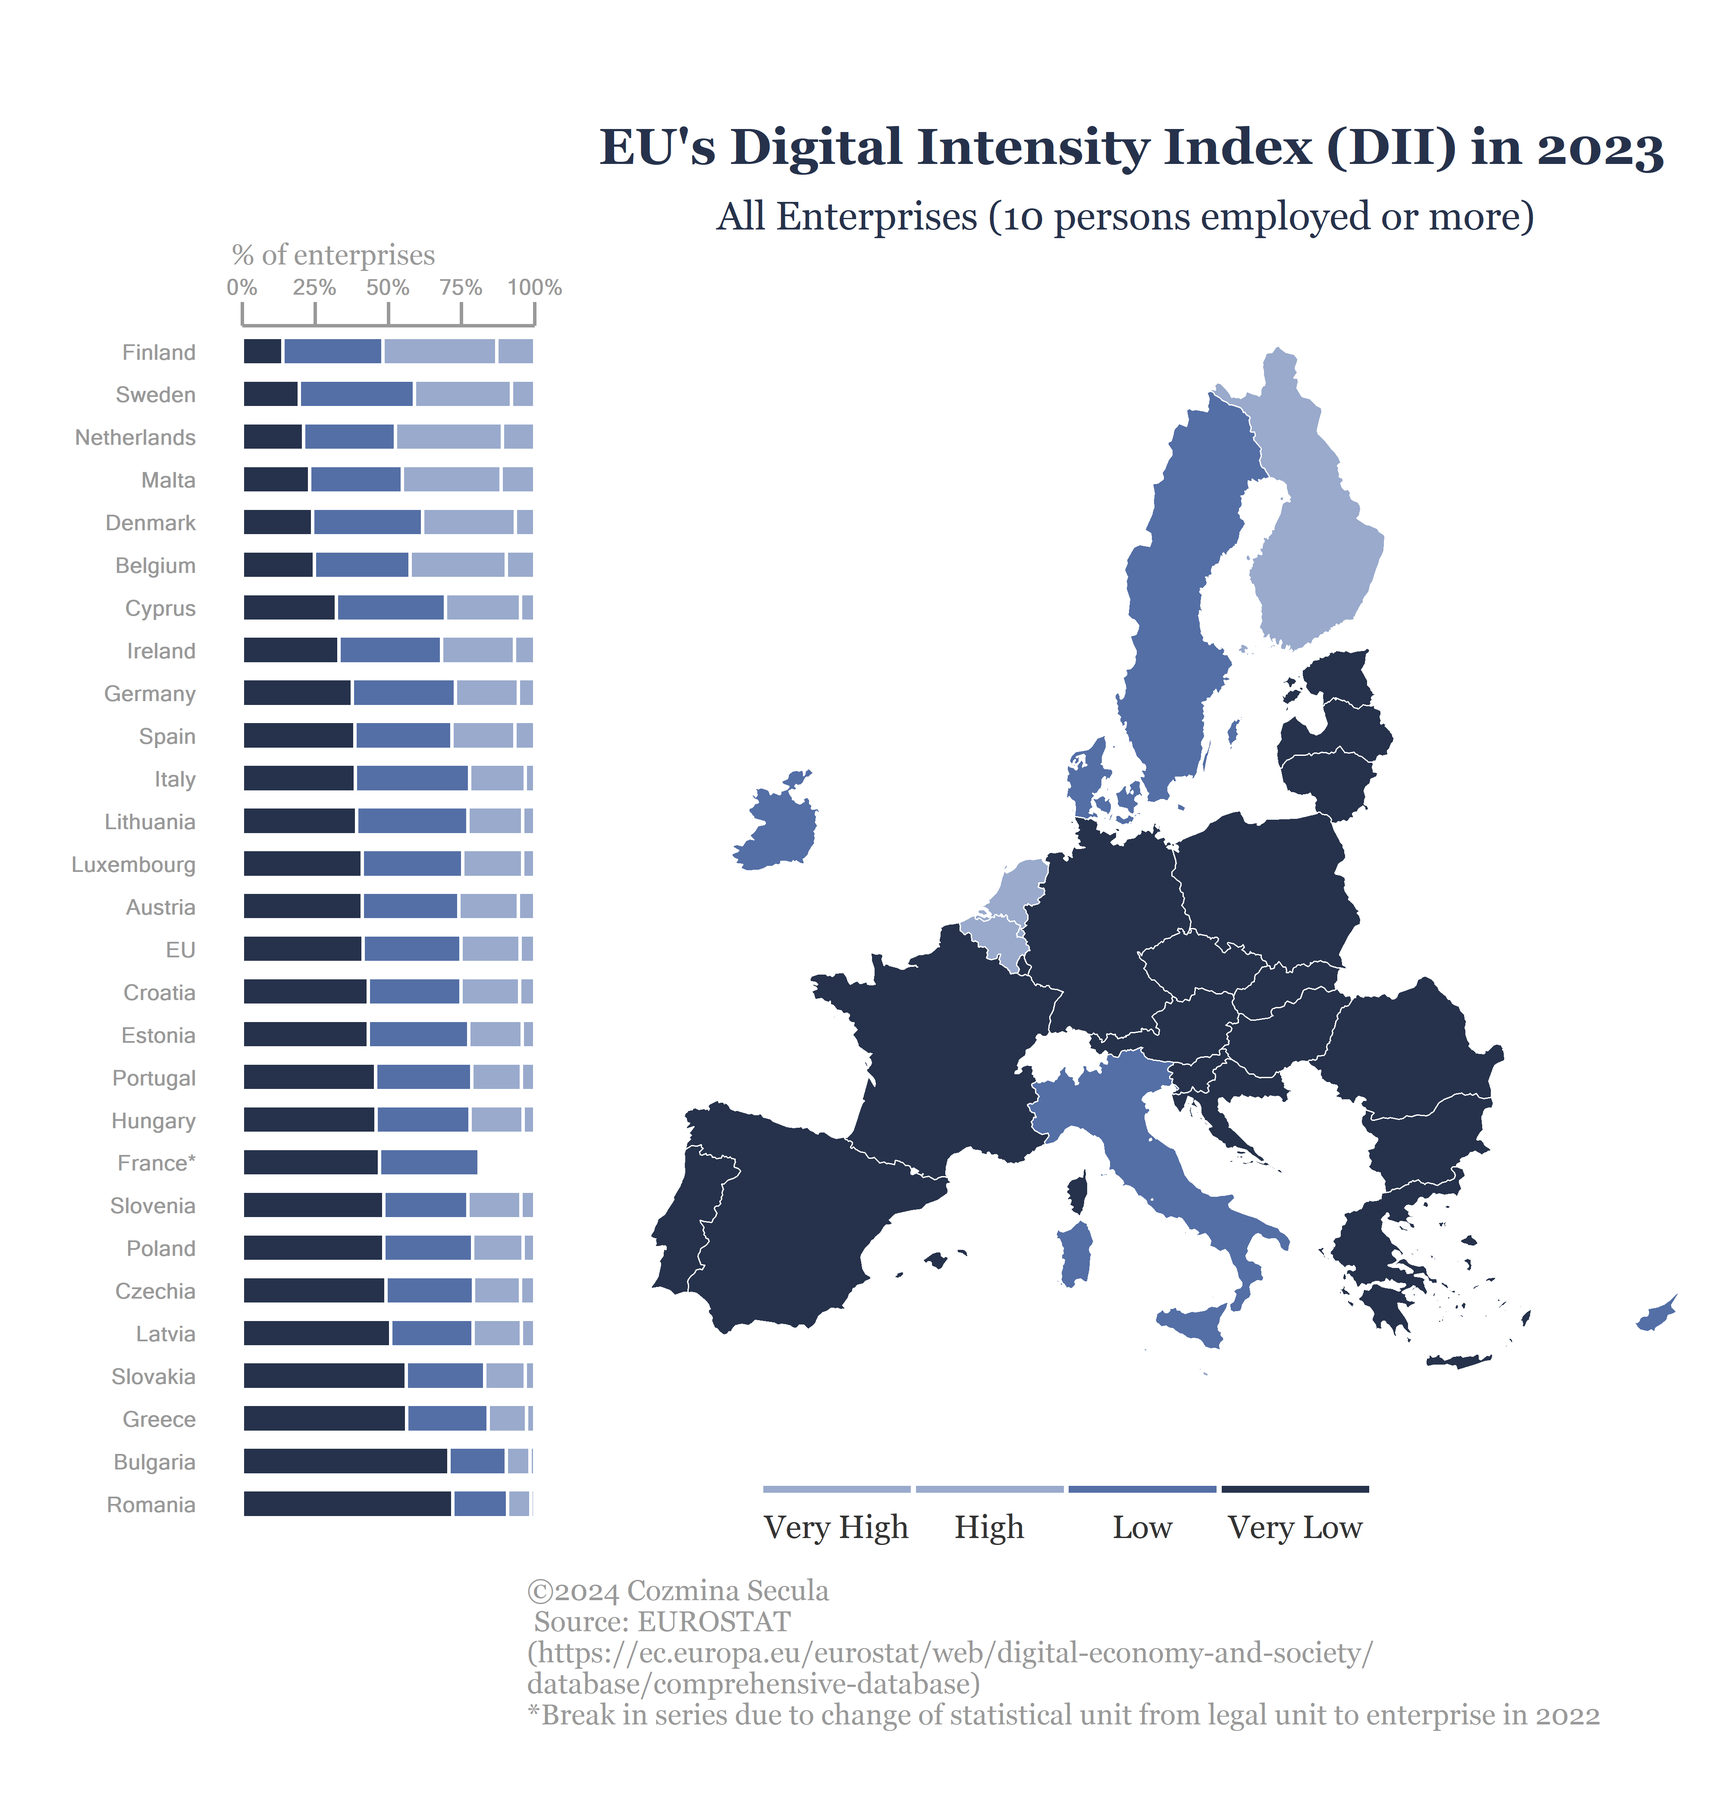
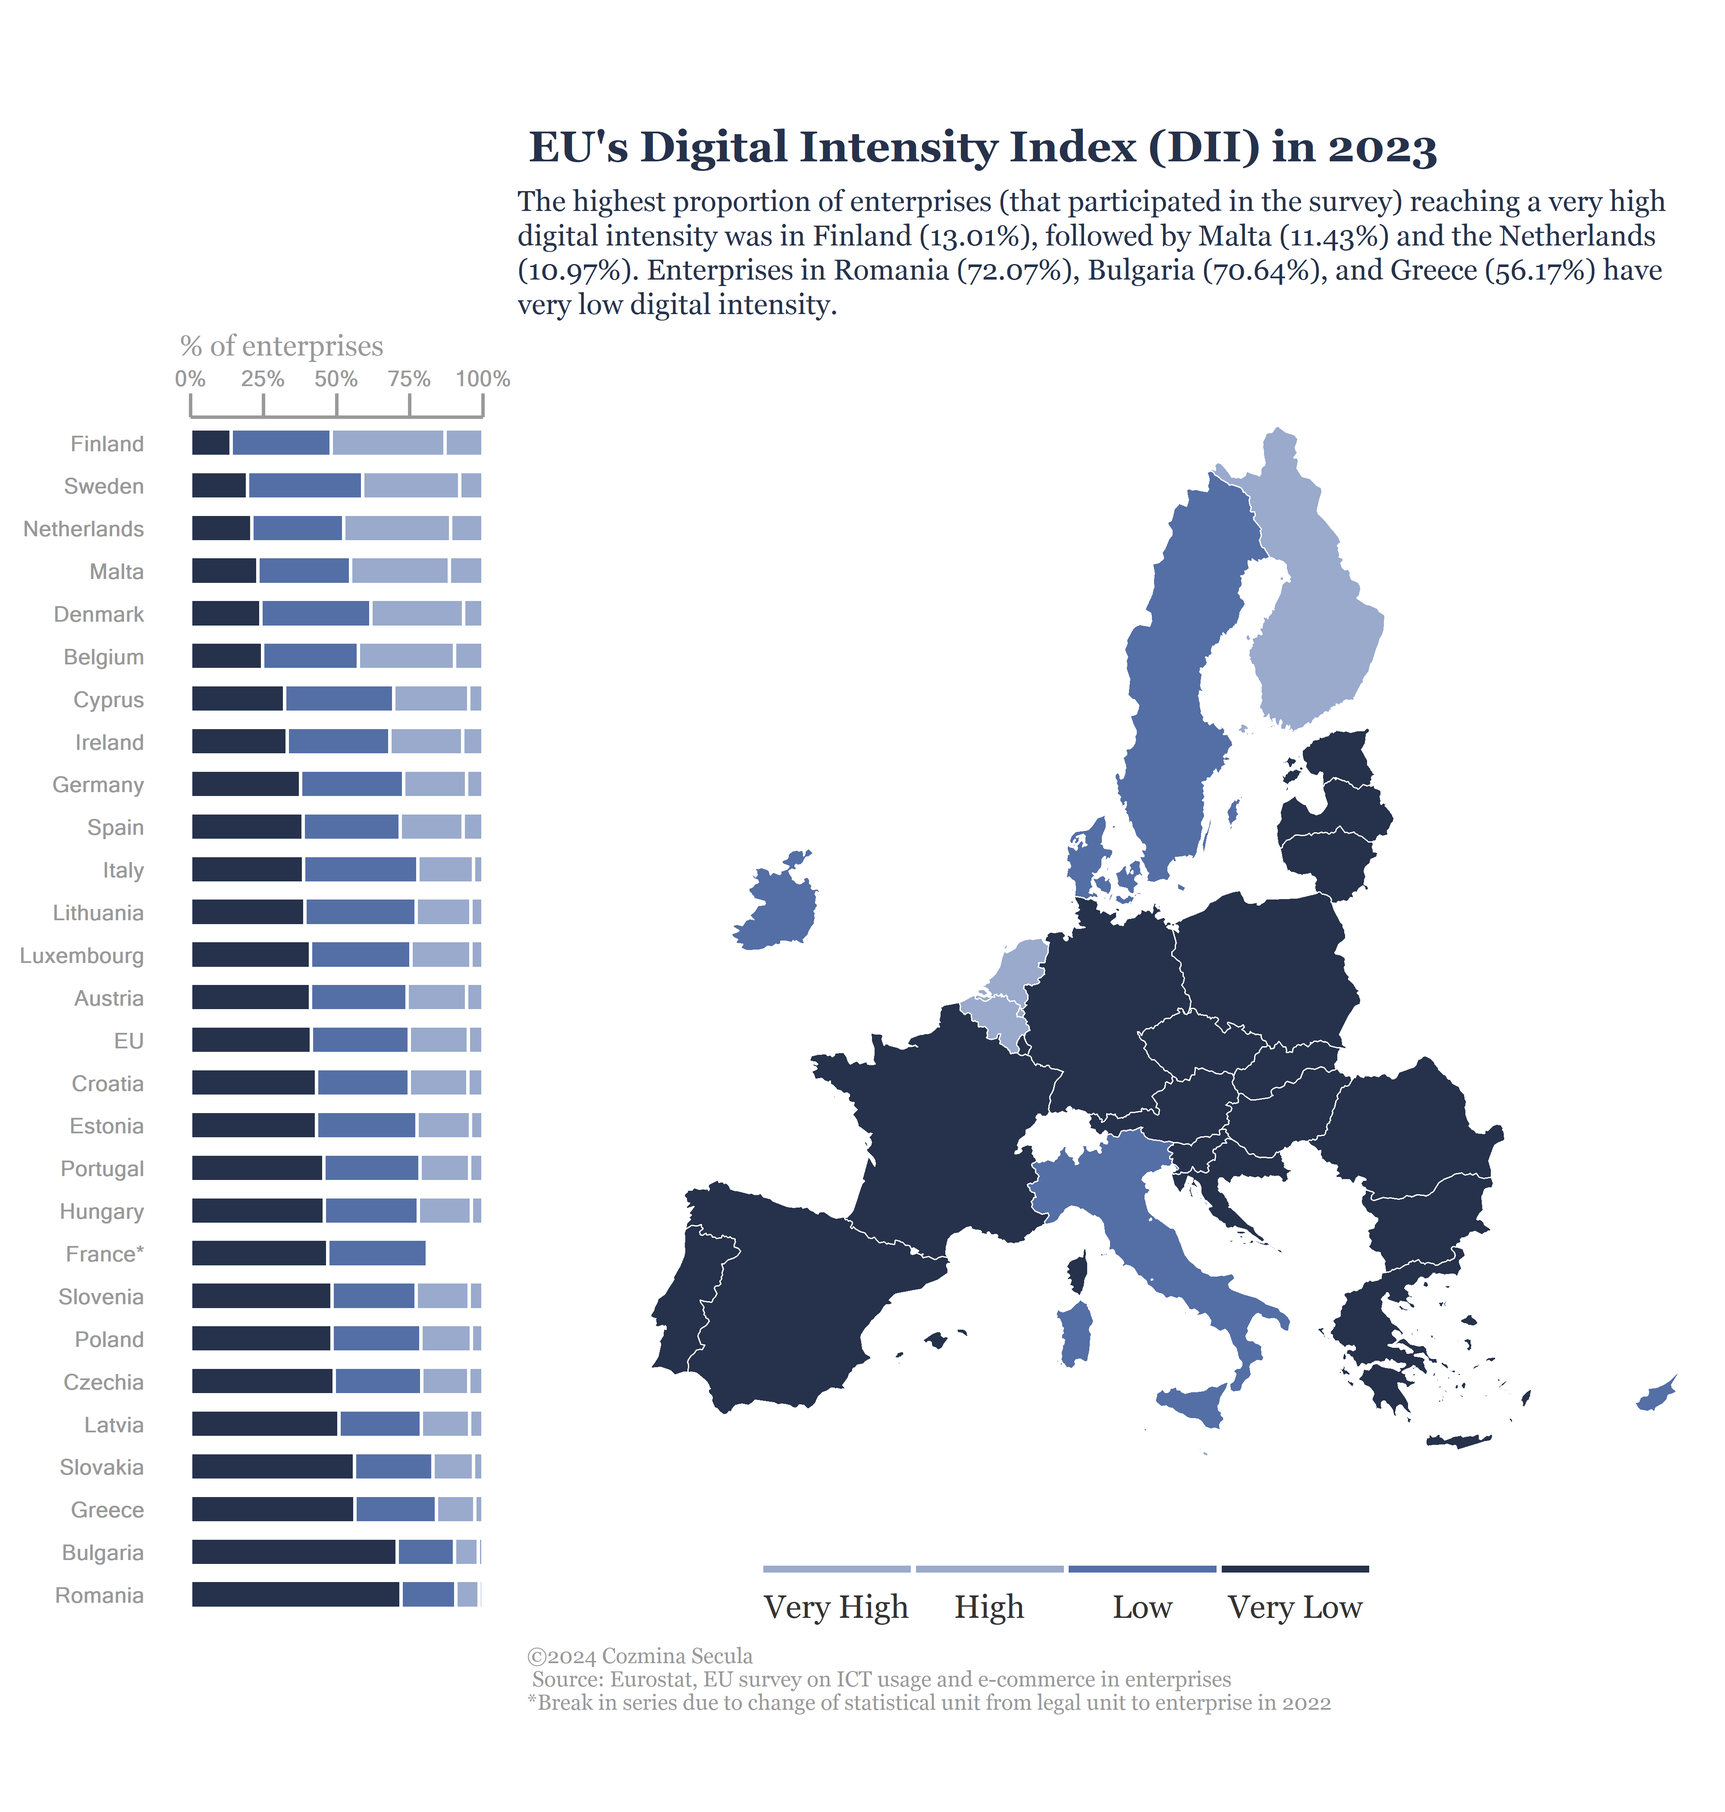
update

diff --git a/docs/posts/eurostat_statistics/dii_eu_2023.html b/docs/posts/eurostat_statistics/dii_eu_2023.html
@@ -254,7 +254,7 @@ pre > code.sourceCode > span > a:first-child::before { text-decoration: underlin
 <p><img src="./dii_eu_2023.png" class="img-fluid"></p>
 <section id="eus-digital-intensity-index-dii" class="level2">
 <h2 class="anchored" data-anchor-id="eus-digital-intensity-index-dii">EU’s Digital Intensity Index (DII)</h2>
-<p><a href="https://circabc.europa.eu/ui/group/89577311-0f9b-4fc0-b8c2-2aaa7d3ccb91/library/84b390d2-6a83-4dae-8aba-37c18557eb5b/details">Digital Intensity Index (DII)</a> is a composite indicator, derived from the survey on ICT usage and e-commerce in enterprises.</p>
+<p><a href="https://circabc.europa.eu/ui/group/89577311-0f9b-4fc0-b8c2-2aaa7d3ccb91/library/84b390d2-6a83-4dae-8aba-37c18557eb5b/details">Digital Intensity Index (DII)</a> is a composite indicator, derived from the EU survey on ICT usage and e-commerce in enterprises.</p>
 <p>The indicator is calculated based on 12 variables, with each of the variables having a score of 1 point. The DII distinguishes four levels of digital intensity for each enterprise:</p>
 <ul>
 <li>Enterprises with very low digital intensity index (0-3 points)</li>
@@ -324,12 +324,12 @@ pre > code.sourceCode > span > a:first-child::before { text-decoration: underlin
 <span id="cb1-53"><a href="#cb1-53" aria-hidden="true" tabindex="-1"></a><span class="fu">datatable</span>(dii_filtered, </span>
 <span id="cb1-54"><a href="#cb1-54" aria-hidden="true" tabindex="-1"></a>          <span class="at">options =</span> <span class="fu">list</span>(<span class="at">pageLength =</span> <span class="dv">5</span>, </span>
 <span id="cb1-55"><a href="#cb1-55" aria-hidden="true" tabindex="-1"></a>          <span class="at">scrollY =</span> <span class="cn">TRUE</span>),</span>
-<span id="cb1-56"><a href="#cb1-56" aria-hidden="true" tabindex="-1"></a>          <span class="at">caption =</span> <span class="st">"Source: EUROSTAT (https://ec.europa.eu/eurostat/web/digital-economy-and-society/</span><span class="sc">\n</span><span class="st">database/comprehensive-database)"</span> </span>
+<span id="cb1-56"><a href="#cb1-56" aria-hidden="true" tabindex="-1"></a>          <span class="at">caption =</span> <span class="st">"Source: Eurostat (https://ec.europa.eu/eurostat/web/digital-economy-and-society/</span><span class="sc">\n</span><span class="st">database/comprehensive-database)"</span> </span>
 <span id="cb1-57"><a href="#cb1-57" aria-hidden="true" tabindex="-1"></a>)</span></code><button title="Copy to Clipboard" class="code-copy-button"><i class="bi"></i></button></pre></div>
 </details>
 <div class="cell-output-display">
-<div class="datatables html-widget html-fill-item-overflow-hidden html-fill-item" id="htmlwidget-dd11a2ce19de0dcd90de" style="width:100%;height:auto;"></div>
-<script type="application/json" data-for="htmlwidget-dd11a2ce19de0dcd90de">{"x":{"filter":"none","vertical":false,"caption":"<caption>Source: EUROSTAT (https://ec.europa.eu/eurostat/web/digital-economy-and-society/\ndatabase/comprehensive-database)<\/caption>","data":[["1","2","3","4","5","6","7","8","9","10","11","12","13","14","15","16","17","18","19","20","21","22","23","24","25","26","27","28"],[2023,2023,2023,2023,2023,2023,2023,2023,2023,2023,2023,2023,2023,2023,2023,2023,2023,2023,2023,2023,2023,2023,2023,2023,2023,2023,2023,2023],["Romania","Bulgaria","Greece","Slovakia","Latvia","Czechia","Poland","Slovenia","France","Hungary","Portugal","Estonia","Croatia","European Union - 27 countries (from 2020)","Austria","Luxembourg","Lithuania","Italy","Spain","Germany","Ireland","Cyprus","Belgium","Denmark","Malta","Netherlands","Sweden","Finland"],["Enterprises with at least low (basic) digital intensity index (DII Version 3)","Enterprises with at least low (basic) digital intensity index (DII Version 3)","Enterprises with at least low (basic) digital intensity index (DII Version 3)","Enterprises with at least low (basic) digital intensity index (DII Version 3)","Enterprises with at least low (basic) digital intensity index (DII Version 3)","Enterprises with at least low (basic) digital intensity index (DII Version 3)","Enterprises with at least low (basic) digital intensity index (DII Version 3)","Enterprises with at least low (basic) digital intensity index (DII Version 3)","Enterprises with at least low (basic) digital intensity index (DII Version 3)","Enterprises with at least low (basic) digital intensity index (DII Version 3)","Enterprises with at least low (basic) digital intensity index (DII Version 3)","Enterprises with at least low (basic) digital intensity index (DII Version 3)","Enterprises with at least low (basic) digital intensity index (DII Version 3)","Enterprises with at least low (basic) digital intensity index (DII Version 3)","Enterprises with at least low (basic) digital intensity index (DII Version 3)","Enterprises with at least low (basic) digital intensity index (DII Version 3)","Enterprises with at least low (basic) digital intensity index (DII Version 3)","Enterprises with at least low (basic) digital intensity index (DII Version 3)","Enterprises with at least low (basic) digital intensity index (DII Version 3)","Enterprises with at least low (basic) digital intensity index (DII Version 3)","Enterprises with at least low (basic) digital intensity index (DII Version 3)","Enterprises with at least low (basic) digital intensity index (DII Version 3)","Enterprises with at least low (basic) digital intensity index (DII Version 3)","Enterprises with at least low (basic) digital intensity index (DII Version 3)","Enterprises with at least low (basic) digital intensity index (DII Version 3)","Enterprises with at least low (basic) digital intensity index (DII Version 3)","Enterprises with at least low (basic) digital intensity index (DII Version 3)","Enterprises with at least low (basic) digital intensity index (DII Version 3)"],["Percentage of enterprises","Percentage of enterprises","Percentage of enterprises","Percentage of enterprises","Percentage of enterprises","Percentage of enterprises","Percentage of enterprises","Percentage of enterprises","Percentage of enterprises","Percentage of enterprises","Percentage of enterprises","Percentage of enterprises","Percentage of enterprises","Percentage of enterprises","Percentage of enterprises","Percentage of enterprises","Percentage of enterprises","Percentage of enterprises","Percentage of enterprises","Percentage of enterprises","Percentage of enterprises","Percentage of enterprises","Percentage of enterprises","Percentage of enterprises","Percentage of enterprises","Percentage of enterprises","Percentage of enterprises","Percentage of enterprises"],[27.93,29.36,43.82,43.88,49.21,50.92,51.6,51.62,53.06,54.21,54.45,56.88,56.96,58.72,59.01,59.04,60.92,61.27,61.47,62.4,66.92,67.87,75.28,75.95,76.91,79.08,80.52,86.04000000000001]],"container":"<table class=\"display\">\n  <thead>\n    <tr>\n      <th> <\/th>\n      <th>Year<\/th>\n      <th>Country<\/th>\n      <th>Indicator<\/th>\n      <th>Unit<\/th>\n      <th>Value<\/th>\n    <\/tr>\n  <\/thead>\n<\/table>","options":{"pageLength":5,"scrollY":true,"columnDefs":[{"className":"dt-right","targets":[1,5]},{"orderable":false,"targets":0}],"order":[],"autoWidth":false,"orderClasses":false,"lengthMenu":[5,10,25,50,100]}},"evals":[],"jsHooks":[]}</script>
+<div class="datatables html-widget html-fill-item-overflow-hidden html-fill-item" id="htmlwidget-df76ed2fa1def37f4b31" style="width:100%;height:auto;"></div>
+<script type="application/json" data-for="htmlwidget-df76ed2fa1def37f4b31">{"x":{"filter":"none","vertical":false,"caption":"<caption>Source: Eurostat (https://ec.europa.eu/eurostat/web/digital-economy-and-society/\ndatabase/comprehensive-database)<\/caption>","data":[["1","2","3","4","5","6","7","8","9","10","11","12","13","14","15","16","17","18","19","20","21","22","23","24","25","26","27","28"],[2023,2023,2023,2023,2023,2023,2023,2023,2023,2023,2023,2023,2023,2023,2023,2023,2023,2023,2023,2023,2023,2023,2023,2023,2023,2023,2023,2023],["Romania","Bulgaria","Greece","Slovakia","Latvia","Czechia","Poland","Slovenia","France","Hungary","Portugal","Estonia","Croatia","European Union - 27 countries (from 2020)","Austria","Luxembourg","Lithuania","Italy","Spain","Germany","Ireland","Cyprus","Belgium","Denmark","Malta","Netherlands","Sweden","Finland"],["Enterprises with at least low (basic) digital intensity index (DII Version 3)","Enterprises with at least low (basic) digital intensity index (DII Version 3)","Enterprises with at least low (basic) digital intensity index (DII Version 3)","Enterprises with at least low (basic) digital intensity index (DII Version 3)","Enterprises with at least low (basic) digital intensity index (DII Version 3)","Enterprises with at least low (basic) digital intensity index (DII Version 3)","Enterprises with at least low (basic) digital intensity index (DII Version 3)","Enterprises with at least low (basic) digital intensity index (DII Version 3)","Enterprises with at least low (basic) digital intensity index (DII Version 3)","Enterprises with at least low (basic) digital intensity index (DII Version 3)","Enterprises with at least low (basic) digital intensity index (DII Version 3)","Enterprises with at least low (basic) digital intensity index (DII Version 3)","Enterprises with at least low (basic) digital intensity index (DII Version 3)","Enterprises with at least low (basic) digital intensity index (DII Version 3)","Enterprises with at least low (basic) digital intensity index (DII Version 3)","Enterprises with at least low (basic) digital intensity index (DII Version 3)","Enterprises with at least low (basic) digital intensity index (DII Version 3)","Enterprises with at least low (basic) digital intensity index (DII Version 3)","Enterprises with at least low (basic) digital intensity index (DII Version 3)","Enterprises with at least low (basic) digital intensity index (DII Version 3)","Enterprises with at least low (basic) digital intensity index (DII Version 3)","Enterprises with at least low (basic) digital intensity index (DII Version 3)","Enterprises with at least low (basic) digital intensity index (DII Version 3)","Enterprises with at least low (basic) digital intensity index (DII Version 3)","Enterprises with at least low (basic) digital intensity index (DII Version 3)","Enterprises with at least low (basic) digital intensity index (DII Version 3)","Enterprises with at least low (basic) digital intensity index (DII Version 3)","Enterprises with at least low (basic) digital intensity index (DII Version 3)"],["Percentage of enterprises","Percentage of enterprises","Percentage of enterprises","Percentage of enterprises","Percentage of enterprises","Percentage of enterprises","Percentage of enterprises","Percentage of enterprises","Percentage of enterprises","Percentage of enterprises","Percentage of enterprises","Percentage of enterprises","Percentage of enterprises","Percentage of enterprises","Percentage of enterprises","Percentage of enterprises","Percentage of enterprises","Percentage of enterprises","Percentage of enterprises","Percentage of enterprises","Percentage of enterprises","Percentage of enterprises","Percentage of enterprises","Percentage of enterprises","Percentage of enterprises","Percentage of enterprises","Percentage of enterprises","Percentage of enterprises"],[27.93,29.36,43.82,43.88,49.21,50.92,51.6,51.62,53.06,54.21,54.45,56.88,56.96,58.72,59.01,59.04,60.92,61.27,61.47,62.4,66.92,67.87,75.28,75.95,76.91,79.08,80.52,86.04000000000001]],"container":"<table class=\"display\">\n  <thead>\n    <tr>\n      <th> <\/th>\n      <th>Year<\/th>\n      <th>Country<\/th>\n      <th>Indicator<\/th>\n      <th>Unit<\/th>\n      <th>Value<\/th>\n    <\/tr>\n  <\/thead>\n<\/table>","options":{"pageLength":5,"scrollY":true,"columnDefs":[{"className":"dt-right","targets":[1,5]},{"orderable":false,"targets":0}],"order":[],"autoWidth":false,"orderClasses":false,"lengthMenu":[5,10,25,50,100]}},"evals":[],"jsHooks":[]}</script>
 </div>
 </div>
 </section>
@@ -350,7 +350,6 @@ pre > code.sourceCode > span > a:first-child::before { text-decoration: underlin
 <li>Enterprises having ERP software package to share information between different functional areas.</li>
 <li>Enterprises using Customer Relationship Management (CRM).</li>
 </ol>
-<p>The biggest proportion of enterprises (that participated in the survey) reaching a very high level of the DII in 2023 was in Finland (13.01%), followed by Malta (11.43%) and the Netherlands (10.97%). On the other hand, enterprises in Romania (72.07%), Bulgaria (70.64%) and Greece (56.17%) have very low digital intensity.</p>
 <p>More information about Digital Intensity Index <a href="https://ec.europa.eu/eurostat/cache/metadata/en/isoc_e_dii_esmsip2.htm">here</a>.</p>
 <p>The visualization was inspired by <a href="https://milospopovic.net/">Milos Popovic</a> and his <a href="https://milospopovic.net/inset-graph-within-map/">tutorial</a> on making a visualization with a graph and a map.</p>
 

diff --git a/docs/index.html b/docs/index.html
@@ -165,12 +165,12 @@ ul.task-list li input[type="checkbox"] {
     <script type="text/javascript" src="//translate.google.com/translate_a/element.js?cb=googleTranslateElementInit"></script>
 <p><br></p>
 <p>Hi! I’m Cozmina.</p>
-<p>A passionate about making sense of data and working on problems in the data space.</p>
-<p>My work is a combination of:</p>
+<p>A passionate about making sense of data with a focus on data analysis and visualization.</p>
+<p>My work is the result of a combination of the following:</p>
 <ul>
-<li><p>Relevant skills I developed in more than 17 years working in business-to-business direct sales such as communication, understanding business needs, acting as a business partner and advisor, planning, analyzing, and implementing projects to obtain the desired results.</p></li>
-<li><p>Skills and knowledge of various techniques and tools for data analysis and visualization such as relational databases, SQL for data analysis, and R programming language.</p></li>
-<li><p>Desire to learn, motivation, curiosity, and professionalism.</p></li>
+<li><p>Over 17 years of experience in B2B direct sales, where I acted as a business partner and advisor, planning, analyzing, and implementing projects to achieve the desired results.</p></li>
+<li><p>Knowledge of relational databases, SQL for data analysis, and the R programming language.</p></li>
+<li><p>Continuous learning, curiosity, and professionalism.</p></li>
 </ul>
 
 

diff --git a/docs/posts.html b/docs/posts.html
@@ -258,7 +258,7 @@ window.Quarto = {
     </div>
 </div>
 <div class="list grid quarto-listing-cols-3">
-<div class="g-col-1" data-index="0" data-categories="data analysis,data visualization,eurostat,digital intensity index" data-listing-date-sort="1720990800000" data-listing-file-modified-sort="1721060652849" data-listing-date-modified-sort="NaN" data-listing-reading-time-sort="5" data-listing-word-count-sort="829">
+<div class="g-col-1" data-index="0" data-categories="data analysis,data visualization,eurostat,digital intensity index" data-listing-date-sort="1720990800000" data-listing-file-modified-sort="1721112223314" data-listing-date-modified-sort="NaN" data-listing-reading-time-sort="4" data-listing-word-count-sort="781">
 <a href="./posts/eurostat_statistics/dii_eu_2023.html" class="quarto-grid-link">
 <div class="quarto-grid-item card h-100 card-left">
 <p class="card-img-top"><img src="posts\eurostat_statistics\dii_eu_2023.png" style="height: 250px;"  class="thumbnail-image card-img"/></p>
